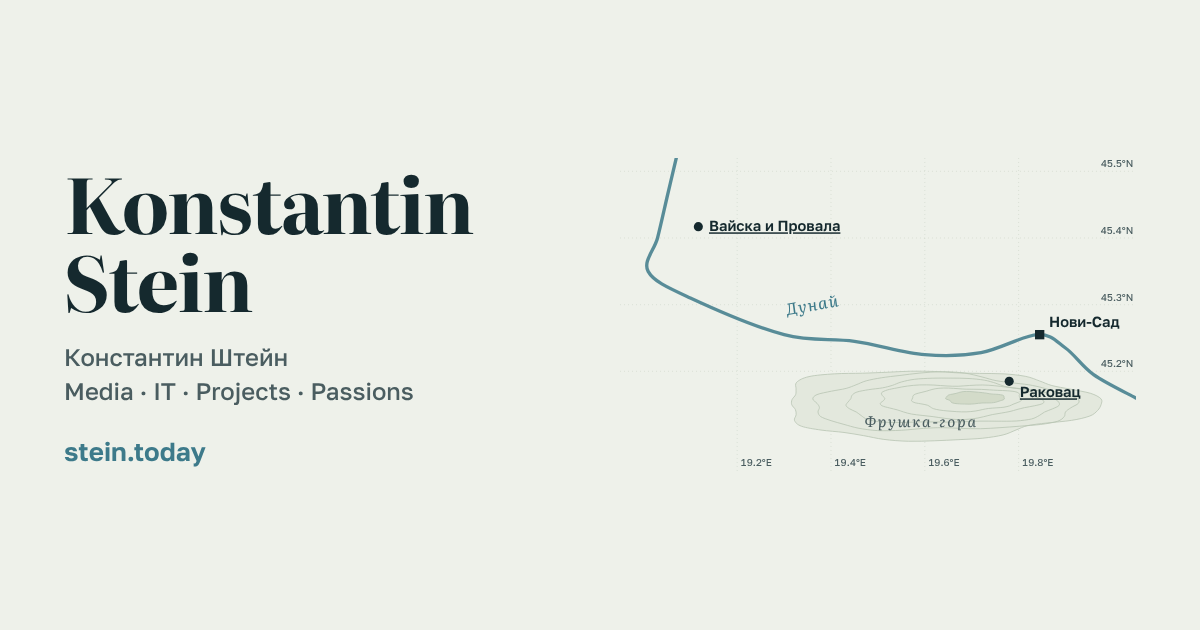
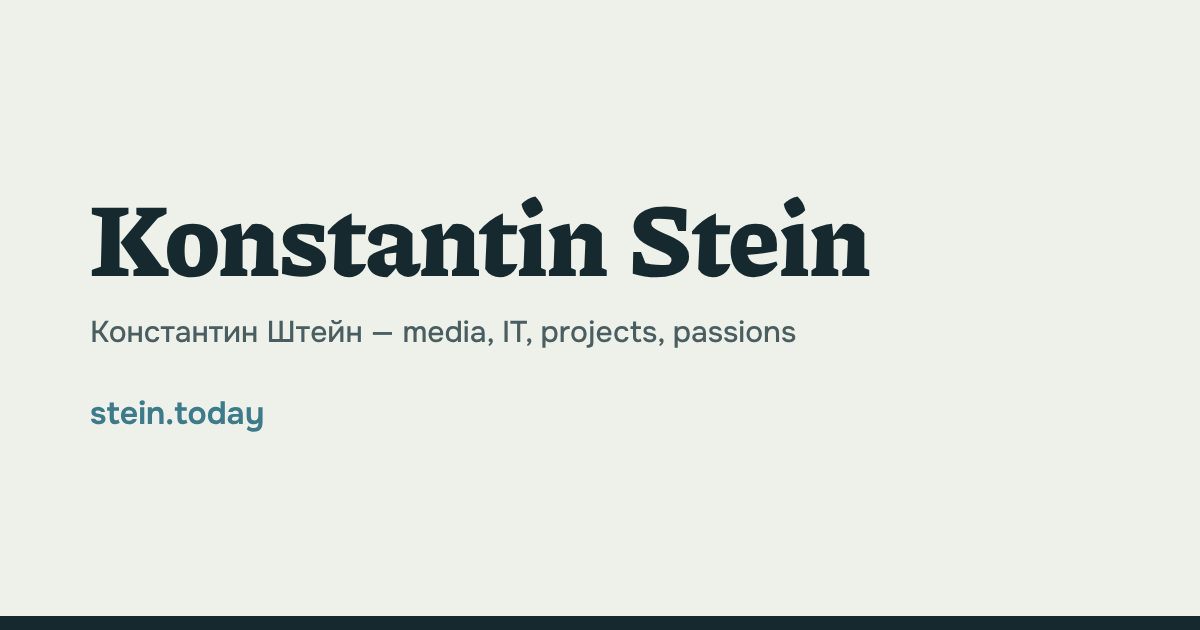
Fonts: Piazzolla + Onest (OFL, self-hosted); text-only OG image
Claude-Session: https://claude.ai/code/session_018Up9vZDakJZzbK6EUZKEC7

diff --git a/src/styles/global.css b/src/styles/global.css
@@ -10,8 +10,8 @@
   --linden: #5e7a22;
   --bermet: #8c1d40;
 
-  --serif: 'Literata Variable', Georgia, 'Times New Roman', serif;
-  --sans: 'Golos Text Variable', system-ui, -apple-system, 'Segoe UI', sans-serif;
+  --serif: 'Piazzolla Variable', Georgia, 'Times New Roman', serif;
+  --sans: 'Onest Variable', system-ui, -apple-system, 'Segoe UI', sans-serif;
 
   /* модульная шкала 1.25 */
   --s-1: 0.8rem;
@@ -75,7 +75,7 @@ a:hover { color: var(--bermet); text-decoration-color: currentColor; }
 @media (max-width: 899px) { .portrait { order: -1; width: min(70%, 18rem); justify-self: start; } }
 .hero .legend { grid-column: 1 / -1; }
 .hero h1 {
-  font-size: var(--s5); line-height: 1.02; letter-spacing: -0.025em; font-weight: 720;
+  font-size: var(--s5); line-height: 1.04; letter-spacing: -0.01em; word-spacing: 0.08em; font-weight: 780;
   font-variation-settings: 'opsz' 72; margin: 0 0 0.35rem;
 }
 .hero .alt { font-family: var(--sans); color: var(--ink-soft); font-size: var(--s-1); margin: 0 0 1.6rem; }

diff --git a/tools/og.py b/tools/og.py
@@ -1,0 +1,17 @@
+import asyncio
+from playwright.async_api import async_playwright
+async def main():
+    async with async_playwright() as p:
+        b = await p.chromium.launch(executable_path='/usr/bin/google-chrome')
+        pg = await b.new_page(viewport={'width':1200,'height':630})
+        await pg.goto('http://localhost:4321/ru/', wait_until='networkidle')
+        await pg.evaluate("""() => {
+          document.body.innerHTML = `<div style="width:1200px;height:630px;display:flex;flex-direction:column;justify-content:center;padding:0 90px;box-sizing:border-box;background:#eef1ea;border-bottom:14px solid #15292e">
+            <div style="font:780 104px/1.02 'Piazzolla Variable';letter-spacing:-0.01em;word-spacing:0.08em;color:#15292e">Konstantin Stein</div>
+            <div style="font:500 30px/1.4 'Onest Variable';color:#4a5d60;margin-top:22px">Константин Штейн — media, IT, projects, passions</div>
+            <div style="font:650 32px 'Onest Variable';color:#3d7a8a;margin-top:40px">stein.today</div></div>`;
+        }""")
+        await pg.wait_for_timeout(300)
+        await pg.screenshot(path='public/og.png')
+        await b.close()
+asyncio.run(main())

diff --git a/STATUS.md b/STATUS.md
@@ -15,14 +15,14 @@ Updated: 2026-11-19
 - Приватное превью главной (RU): https://claude.ai/artifact/CPTgtW6D9cb7Dp7foHVyEU
 - Первый экран: фото (слот public/photo.jpg, пока монограмма). Карта по реальным координатам перенесена на страницу «Краеведение» (Раковац 45.185N 19.78E, Нови-Сад, Вайска 45.417N 19.117E).
 - Резюме `/ru/cv/`, `/en/cv/` с версией для печати и PDF; цифры дословно со stein-1.com (проверено 19.11.2026).
-- Шрифты Literata и Golos Text раздаются локально (без Google Fonts, из-за DSGVO).
+- Шрифты: Piazzolla (антиква) + Onest (интерфейс), обе OFL 1.1, кириллица + latin-ext; раздаются локально (без Google Fonts, из-за DSGVO). Выбраны Костей из 4 пар 19.11.
 - Workflow деплоя по rsync/SSH; без секретов выкладка пропускается с предупреждением.
 - Скриншоты десктоп/мобайл проверены.
 
 ## Next step
 1. Получить от Кости фото (портрет 4:5) → public/photo.jpg, перегенерировать og.png с фото.
 2. Когда 7pro8.com выйдет — поставить url в projects/7pro8.json и убрать «скоро».
-3. Уточнить должность и год начала в ADSBase (сейчас: «сейчас — в штате»).
+3. ADSBase: год начала не известен (в CV «… — 10.2026»).
 4. Сервер 2.28.137.150: A-записи stein.today/www → IP, vhost по `deploy/nginx-stein.today.conf`, certbot, SSH-ключ для деплоя → секреты в GitHub.
 5. Смержить PR → проверить живой сайт.
 6. Добавить SR (латиница) и DE.
@@ -36,6 +36,8 @@ Updated: 2026-11-19
 - ✗ Карта мест на первом экране — Костя: «слишком локально», заменено на фото.
 - ✗ Скачать фото со stein-1.com (static.tildacdn.net) — прокси среды: CONNECT 403 — reopen if: никогда, просить файл.
 - ✗ Фото из Google Drive — файлы «Stein1.jpg» оказались сканами документов, «avatar.jpg» — кукла, «stein 5x5.jpg» — не Костя — reopen if: Костя назовёт конкретный файл.
+- ✗ Literata + Golos Text — Костя: «похоже на стандартные клод-сайты»; отклонены также Brygada 1918, Bona Nova + Ysabeau, Unbounded + Geologica.
+- ✗ logartis.info как источник шрифтов — это портфолио иллюстратора (WebGL), шрифтов там нет; ссылка у Кости обрезалась — reopen if: пришлёт полную ссылку.
 - ✗ GitHub Pages — Костя выбрал свой сервер 2.28.137.150 (где rakovac.rs).
 
 ## Decisions (from Kostya, 19.11)
@@ -43,11 +45,12 @@ Updated: 2026-11-19
 - 7pro8.com — ещё не выложен: упоминание без ссылки, «скоро».
 - Вена: 1990–1993 постоянно + несколько месяцев 1994.
 - Грузинский: базовый (только в CV).
-- ADSBase: только в CV (`cvOnly: true`).
+- ADSBase: только в CV (`cvOnly: true`), Chief of Account Departments, до 10.10.2026.
+- solonin.org: скрыт (projects/_solonin.json), вернуть — переименовать обратно.
 - Pricey: без ссылки и без отдельной страницы, только краткое описание.
 - Провала: год образования «1924 или 1926» (так на provala.rs), не просто 1924.
 
 ## Open questions for the user
 - Фото для первого экрана.
-- Должность и год начала в ADSBase.
+
 - Публиковать ли email? Сейчас только мессенджеры и соцсети.
